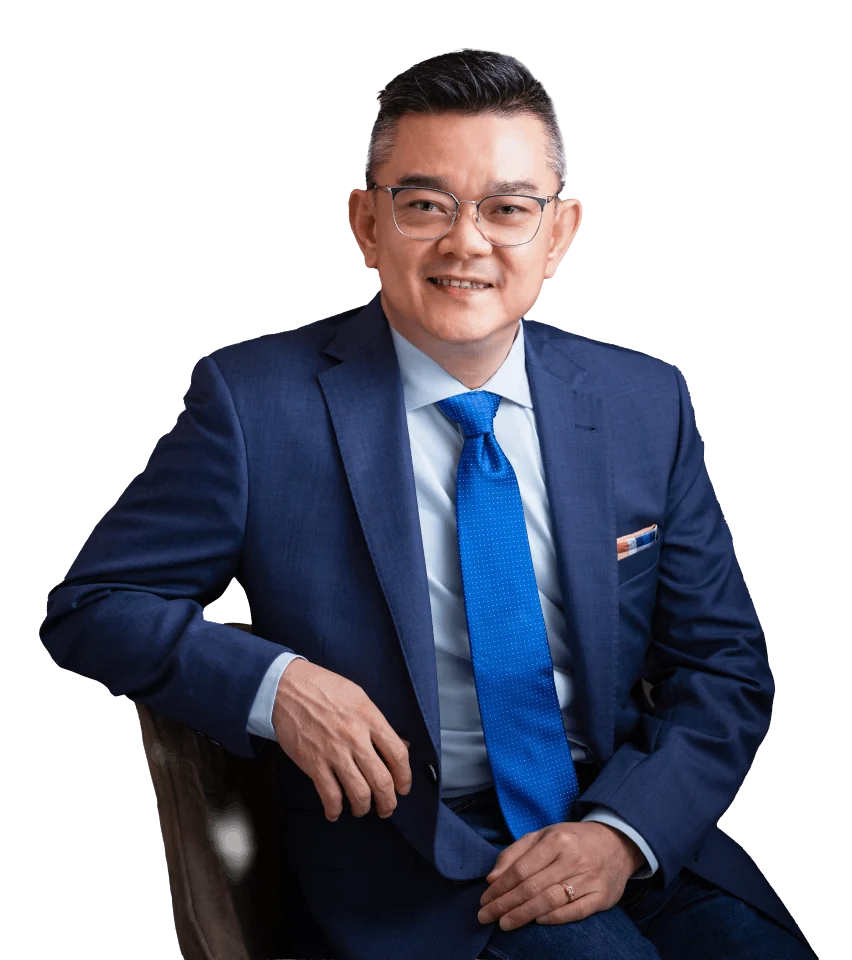
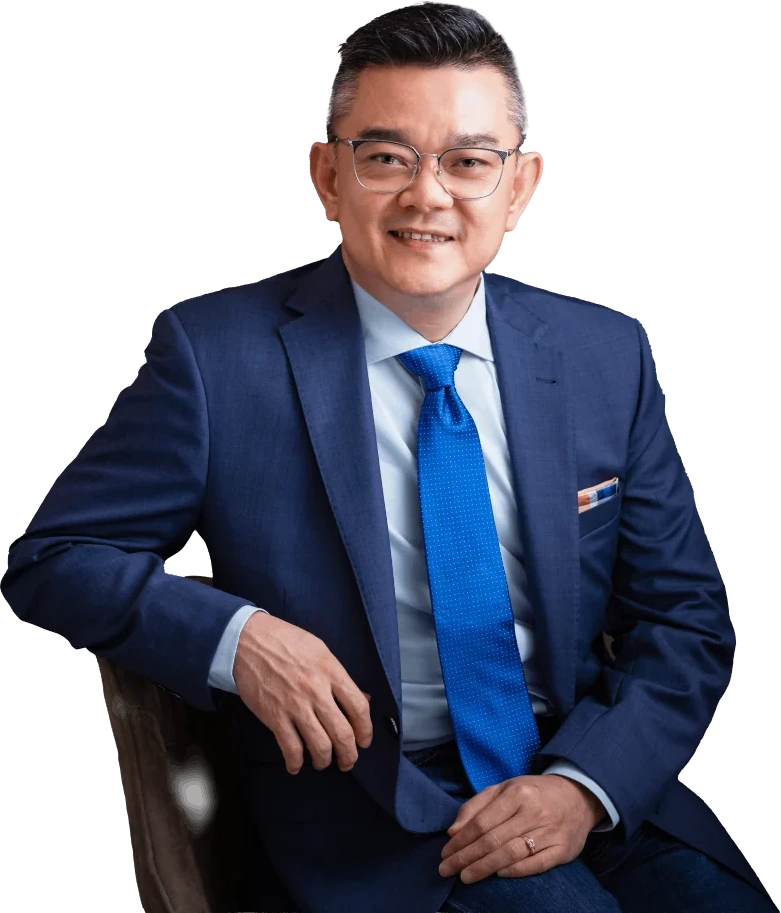
Standardize Kelmen portrait (subject crop, slot-height fill)
Claude-Session: https://claude.ai/code/session_017z63Cg1QBAUfhFJzwgcFSb

Changed region(s): [[0.0, 0.0, 1.0, 1.0], [0.0922, 0.7054, 0.3073, 1.0], [0.7682, 0.9814, 0.799, 1.0]]

diff --git a/site-jp/calib.html b/site-jp/calib.html
@@ -35,6 +35,8 @@ body{background:#0F101E;font-family:'CoFo Sans',system-ui,sans-serif}
 .social a{opacity:.92}.social a:hover{opacity:1}
 .toast{position:fixed;left:50%;bottom:34px;transform:translateX(-50%) translateY(20px);background:rgba(15,22,50,.95);color:#fff;font:500 15px/1.4 'CoFo Sans',sans-serif;padding:13px 26px;border-radius:100px;border:1px solid rgba(130,190,255,.35);box-shadow:0 10px 40px rgba(0,0,0,.5);opacity:0;pointer-events:none;transition:.35s;z-index:99}
 .toast.show{opacity:1;transform:translateX(-50%) translateY(0)}
+.bg,.panel,.port,.pill,.cue,.totop,.social,img{visibility:hidden!important}
+body,.stage{background:#000!important}
 </style>
 </head>
 <body>
